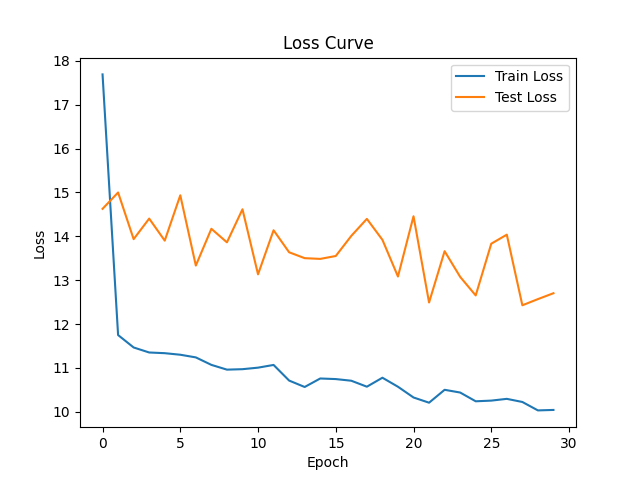
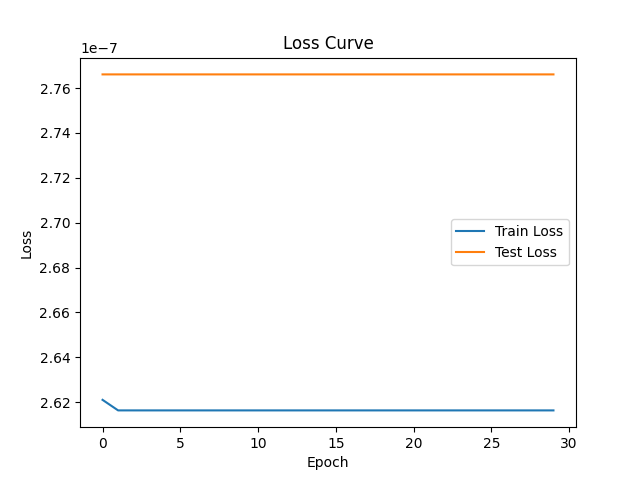
added plotting for correlation vis

diff --git a/dataVis.py b/dataVis.py
@@ -1,0 +1,165 @@
+#Imports:
+import os
+import h5py
+import numpy as np
+import matplotlib.pyplot as plt
+
+grid_size = 50
+
+# Load data from HDF5 file
+h5_file_path = 'prepared_data_TILES/NEmineral_data.h5'
+
+# Load counts data to find non-empty squares
+with h5py.File(h5_file_path, 'r') as f:
+    counts = f['counts'][:]
+
+print(f"Original shape of dataset: {counts.shape}")
+
+# Layer mapping
+elements = ['Gold', 'Silver', 'Zinc', 'Lead', 'Copper', 'Nickel', 'Iron', 'Uranium', 'Tungsten', 'Manganese']
+input_minerals = [0, 1, 2, 3, 4, 6, 7, 8, 9]
+output_mineral = 5 
+
+print("Layer mapping to elements:")
+for i, element in enumerate(elements):
+    print(f"Layer {i}: {element}")
+
+pre_training_vis_path = "preTrainingVis"
+if not os.path.exists(pre_training_vis_path):
+    os.makedirs(pre_training_vis_path)
+
+
+nickel_counts = np.sum(counts[:, output_mineral, :, :], axis=(1, 2))
+other_counts = np.sum(counts[:, input_minerals, :, :], axis=(2, 3))
+
+# Filter to only include squares with non-zero Nickel counts
+non_zero_nickel_indices = np.where(nickel_counts > 0)[0]
+
+np.random.seed(0)
+random_indices = np.random.choice(non_zero_nickel_indices, size=5, replace=False)
+
+for i, mineral_name in enumerate(elements):
+    for idx in random_indices:
+        nickel_grid = counts[idx, output_mineral, :, :]
+        mineral_grid = counts[idx, i, :, :]
+        
+        # Get the coordinates and counts of non-zero values
+        nickel_coords = np.argwhere(nickel_grid > 0)
+        nickel_values = nickel_grid[nickel_grid > 0]
+        mineral_coords = np.argwhere(mineral_grid > 0)
+        mineral_values = mineral_grid[mineral_grid > 0]
+        
+        # Convert coordinates to tuples for easy comparison
+        nickel_coords_tuples = [tuple(coord) for coord in nickel_coords]
+        mineral_coords_tuples = [tuple(coord) for coord in mineral_coords]
+        
+        # Find overlapping coordinates
+        overlap_coords = np.array([coord for coord in nickel_coords_tuples if coord in mineral_coords_tuples])
+        
+        plt.figure(figsize=(10, 8))
+        
+        # Plot Nickel points
+        scatter = plt.scatter(nickel_coords[:, 1], nickel_coords[:, 0], alpha=0.5, label='Nickel', c=nickel_values, cmap='Reds', edgecolor='k')
+        cbar = plt.colorbar(scatter, label='Nickel Count')
+        
+        # Plot other mineral points
+        scatter = plt.scatter(mineral_coords[:, 1], mineral_coords[:, 0], alpha=0.5, label=mineral_name, c=mineral_values, cmap='Blues', edgecolor='k')
+        cbar = plt.colorbar(scatter, label=f'{mineral_name} Count')
+        
+        # Plot overlapping points
+        if overlap_coords.size > 0:
+            plt.scatter(overlap_coords[:, 1], overlap_coords[:, 0], alpha=0.7, label='Overlap', c='black', marker='x', edgecolor='k', s=100)
+        
+        plt.xlabel('X Coordinate')
+        plt.ylabel('Y Coordinate')
+        plt.xlim(0, grid_size)
+        plt.ylim(0, grid_size)
+        plt.title(f'Scatter plot of Nickel vs {mineral_name} Locations\nSquare Index: {idx}')
+        plt.legend()
+        plt.grid(True)  # Add grid lines
+        plt.gca().set_aspect('equal', adjustable='box')  # Ensure equal aspect ratio
+        plt.savefig(f"{pre_training_vis_path}/Nickel_vs_{mineral_name}_Square_{idx}.png")
+        plt.close()
+
+print("Pre-training visualizations saved in the 'preTrainingVis' folder.")
+
+
+total_squares = counts.shape[0]
+percent_only_mineral_list = []
+percent_mineral_with_nickel_list = []
+percent_all_mineral_list = []
+total_mineral_points_list = []
+
+for i, mineral_name in enumerate(elements):
+    mineral_index = i
+    
+    # Identify squares that contain the current mineral
+    squares_with_mineral = counts[:, mineral_index, :, :] > 0
+    valid_squares_with_mineral = np.any(squares_with_mineral, axis=(1, 2))
+    
+    # Calculate percentage of squares that contain only this mineral (excluding Nickel)
+    only_mineral_squares = np.sum(valid_squares_with_mineral & (np.sum(counts[:, output_mineral, :, :] > 0, axis=(1, 2)) == 0))
+    percent_only_mineral = (only_mineral_squares / np.sum(valid_squares_with_mineral)) * 100
+    percent_only_mineral_list.append(percent_only_mineral)
+    
+    # Calculate percentage of squares that include both the mineral and Nickel
+    mineral_with_nickel_squares = np.sum(valid_squares_with_mineral & np.any(counts[:, output_mineral, :, :] > 0, axis=(1, 2)))
+    percent_mineral_with_nickel = (mineral_with_nickel_squares / np.sum(valid_squares_with_mineral)) * 100
+    percent_mineral_with_nickel_list.append(percent_mineral_with_nickel)
+
+    # Calculate percentage of all squares that contain the current mineral
+    all_mineral_squares = np.sum(valid_squares_with_mineral)
+    percent_all_mineral = (all_mineral_squares / total_squares) * 100
+    percent_all_mineral_list.append(percent_all_mineral)
+
+    # Calculate the total number of points for the current mineral
+    total_mineral_points = np.sum(counts[:, mineral_index, :, :])
+    
+    # Print results
+    print(f"Mineral: {mineral_name}")
+    print(f"  Percentage of squares that contain only {mineral_name} (excluding Nickel): {percent_only_mineral:.2f}%")
+    print(f"  Percentage of squares that include both {mineral_name} and Nickel: {percent_mineral_with_nickel:.2f}%")
+    print(f"  Percentage of all squares that contain {mineral_name}: {percent_all_mineral:.2f}%")
+    print(f"  Total number of {mineral_name} points: {total_mineral_points}")
+
+print("Calculation complete.")
+
+# Plotting the results
+def plot_results(elements, percent_only_mineral, percent_with_nickel, percent_all_mineral):
+    x = np.arange(len(elements))
+    width = 0.25  # Width of the bars
+
+    fig, ax = plt.subplots(figsize=(14, 8))
+
+    bars1 = ax.bar(x - width, percent_only_mineral, width, label='Only Mineral %')
+    bars2 = ax.bar(x, percent_with_nickel, width, label='Mineral with Nickel %')
+    bars3 = ax.bar(x + width, percent_all_mineral, width, label='All Mineral %')
+
+    ax.set_xlabel('Minerals')
+    ax.set_ylabel('Percentage')
+    ax.set_title('Percentage of Squares by Mineral')
+    ax.set_xticks(x)
+    ax.set_xticklabels(elements)
+    ax.legend(loc='upper left')
+
+    # Add labels above the bars
+    for bars in [bars1, bars2, bars3]:
+        for bar in bars:
+            height = bar.get_height()
+            ax.annotate(f'{height:.2f}%',
+                        xy=(bar.get_x() + bar.get_width() / 2, height),
+                        xytext=(0, 3),  # 3 points vertical offset
+                        textcoords="offset points",
+                        ha='center', va='bottom')
+
+    fig.tight_layout()
+    plt.xticks(rotation=45)
+    plt.grid(True)
+    plt.savefig('mineral_analysis.png', bbox_inches='tight')
+    plt.show()
+
+# Call the plot function
+plot_results(elements, percent_only_mineral_list, percent_mineral_with_nickel_list, percent_all_mineral_list)
+
+print("Plots saved and displayed.")
+

diff --git a/utils.py b/utils.py
@@ -1,5 +1,6 @@
 import wandb
 import os
+import pdb
 import numpy as np
 import torch
 import matplotlib.pyplot as plt
@@ -42,11 +43,15 @@ def plot_predictions(predicted, ground_truth, num_samples=20, save_path="predict
         fig.colorbar(im1, ax=axes[0])
         fig.colorbar(im2, ax=axes[1])
         
-        plt.savefig(f"{save_path}/LINTOCONVsample_{i}.png")
+        plt.savefig(f"{save_path}/LINtoCONV_MEMORIZE_sample_{i}.png")
         plt.close()
 
 
-def custom_loss(predicted, target, alpha=0):
+def regular_loss(predicted, target):
+    loss = nn.MSELoss()(predicted[:, 0, :, :], target[:, 0, :, :])
+    return loss
+
+def integral_loss(predicted, target, alpha=0):
 
     predicted_sum = torch.sum(predicted[:, 0, :, :], dim=[1, 2]) # Sum over the grid for Nickel layer
     target_sum = torch.sum(target[:, 0, :, :], dim=[1, 2]) # Sum over the grid for Nickel layer
@@ -68,7 +73,7 @@ def evaluate(model, data_loader):
             output = output.to(device)  # Move output to device
             outputs = model(input_tensor)  # Get model predictions
 
-            loss = custom_loss(outputs, output)  # Calculate loss
+            loss = regular_loss(outputs, output)  # Calculate loss
             total_loss += loss.item()  # Accumulate loss
 
             predicted_output.append(outputs)  # Store predictions
@@ -82,7 +87,7 @@ def evaluate(model, data_loader):
 
 def train(model, train_loader, test_loader, num_epochs=50, learning_rate=0.0001):
     optimizer = optim.AdamW(model.parameters(), lr=learning_rate)  # AdamW optimizer
-    criterion = custom_loss  # Custom loss function
+    criterion = regular_loss  # Custom loss function
     losses = []  # List to store training losses
     test_losses = []  # List to store test losses
 
@@ -93,7 +98,7 @@ def train(model, train_loader, test_loader, num_epochs=50, learning_rate=0.0001)
         for input_tensor_train, output_tensor_train in train_loader:
             optimizer.zero_grad()  # Zero gradients
             outputs = model(input_tensor_train.to(device))  # Pass only the input tensor
-
+            # pdb.set_trace()
             loss = criterion(outputs, output_tensor_train.to(device))  # Calculate loss
             loss.backward()  # Backpropagate loss
 

diff --git a/train.py b/train.py
@@ -9,10 +9,11 @@ from torchmetrics.functional import structural_similarity_index_measure as ssim
 import matplotlib.pyplot as plt
 from scipy.ndimage import gaussian_filter
 import os
+import pdb
 import wandb
 
 from models import LinToConv, SimplifiedMLP, LinToTransformer, MineralDataset
-from utils import plot_predictions, custom_loss, evaluate, train
+from utils import plot_predictions, integral_loss, evaluate, train
 
 grid_size = 50  # Adjusted to 50x50 grid
 hidden_dim = 512  # Adjust as necessary
@@ -43,9 +44,9 @@ non_empty_indices = np.sort(non_empty_indices)  # Sort indices
 
 # Split into training and testing sets (20% for testing)
 num_samples = len(non_empty_indices)
-num_test_samples = int(num_samples * 0.2)
+num_test_samples = int(num_samples * 0.1)
 test_indices = non_empty_indices[:num_test_samples]
-train_indices = non_empty_indices[num_test_samples:]  # Use the rest for training
+train_indices = non_empty_indices[:]  # Use the rest for training, OR ALL LIKE RN
 
 print(f"Shape of dataset after removing empty squares: {counts[non_empty_indices].shape}")
 
@@ -58,6 +59,7 @@ print("Layer mapping to elements:")
 for i, element in enumerate(elements):
     print(f"Layer {i}: {element}")
 
+
 # Create Dataset and DataLoader
 train_dataset = MineralDataset(counts, input_minerals, output_mineral, indices=train_indices, train=True)
 test_dataset = MineralDataset(counts, input_minerals, output_mineral, indices=test_indices, train=False)
@@ -67,9 +69,11 @@ test_loader = DataLoader(test_dataset, batch_size=16, shuffle=False)
 
 # Initialize model and train
 input_dim = num_minerals * grid_size * grid_size
+# model = SimplifiedMLP(input_dim, hidden_dim)
 model = LinToConv(input_dim, hidden_dim, intermediate_dim)
 # model = LinToTransformer(input_dim, hidden_dim, intermediate_dim, d_model, nhead, num_layers, dropout_rate)
 model = model.to(device)
+pdb.set_trace()
 predicted_output_test, output_tensor_test = train(model, train_loader, test_loader, num_epochs=30, learning_rate=0.00001)
 
 # After the training process, reshape tensors back to the original shape for visualization and metric computation

diff --git a/models.py b/models.py
@@ -8,7 +8,7 @@ from utils import gaussian_filter
 
 
 class MineralDataset(Dataset):
-    def __init__(self, counts, input_minerals, output_mineral, indices, train=True, sigma=1):
+    def __init__(self, counts, input_minerals, output_mineral, indices, train=True, sigma=3):
         self.counts = counts[indices]
         self.input_minerals = input_minerals
         self.output_mineral = output_mineral
@@ -25,17 +25,17 @@ class MineralDataset(Dataset):
         input_data = gaussian_filter(input_data, sigma=self.sigma, mode='constant', truncate=3.0)
         output_data = gaussian_filter(output_data, sigma=self.sigma, mode='constant', truncate=3.0)
         
-        epsilon = 1e-8
-        input_sum = input_data.sum(axis=(1, 2), keepdims=True)
-        output_sum = output_data.sum(axis=(1, 2), keepdims=True)
+        # epsilon = 1e-8
+        # input_sum = input_data.sum(axis=(1, 2), keepdims=True)
+        # output_sum = output_data.sum(axis=(1, 2), keepdims=True)
         
-        if input_sum.sum() > 0:
-            input_data = np.where(input_sum > 0, input_data / (input_sum + epsilon) * self.counts[idx].sum(axis=(1, 2), keepdims=True), input_data)
-        if output_sum.sum() > 0:
-            output_data = np.where(output_sum > 0, output_data / (output_sum + epsilon) * self.counts[idx, self.output_mineral:self.output_mineral+1, :, :].sum(axis=(1, 2), keepdims=True), output_data)
+        # if input_sum.sum() > 0:
+        #     input_data = np.where(input_sum > 0, input_data / (input_sum + epsilon) * self.counts[idx].sum(axis=(1, 2), keepdims=True), input_data)
+        # if output_sum.sum() > 0:
+        #     output_data = np.where(output_sum > 0, output_data / (output_sum + epsilon) * self.counts[idx, self.output_mineral:self.output_mineral+1, :, :].sum(axis=(1, 2), keepdims=True), output_data)
 
         # Mask the output mineral (Nickel) during both training and testing
-        input_data[self.output_mineral, :, :] = 0
+        # input_data[self.output_mineral, :, :] = 0
 
         return torch.tensor(input_data, dtype=torch.float32), torch.tensor(output_data, dtype=torch.float32)
 
